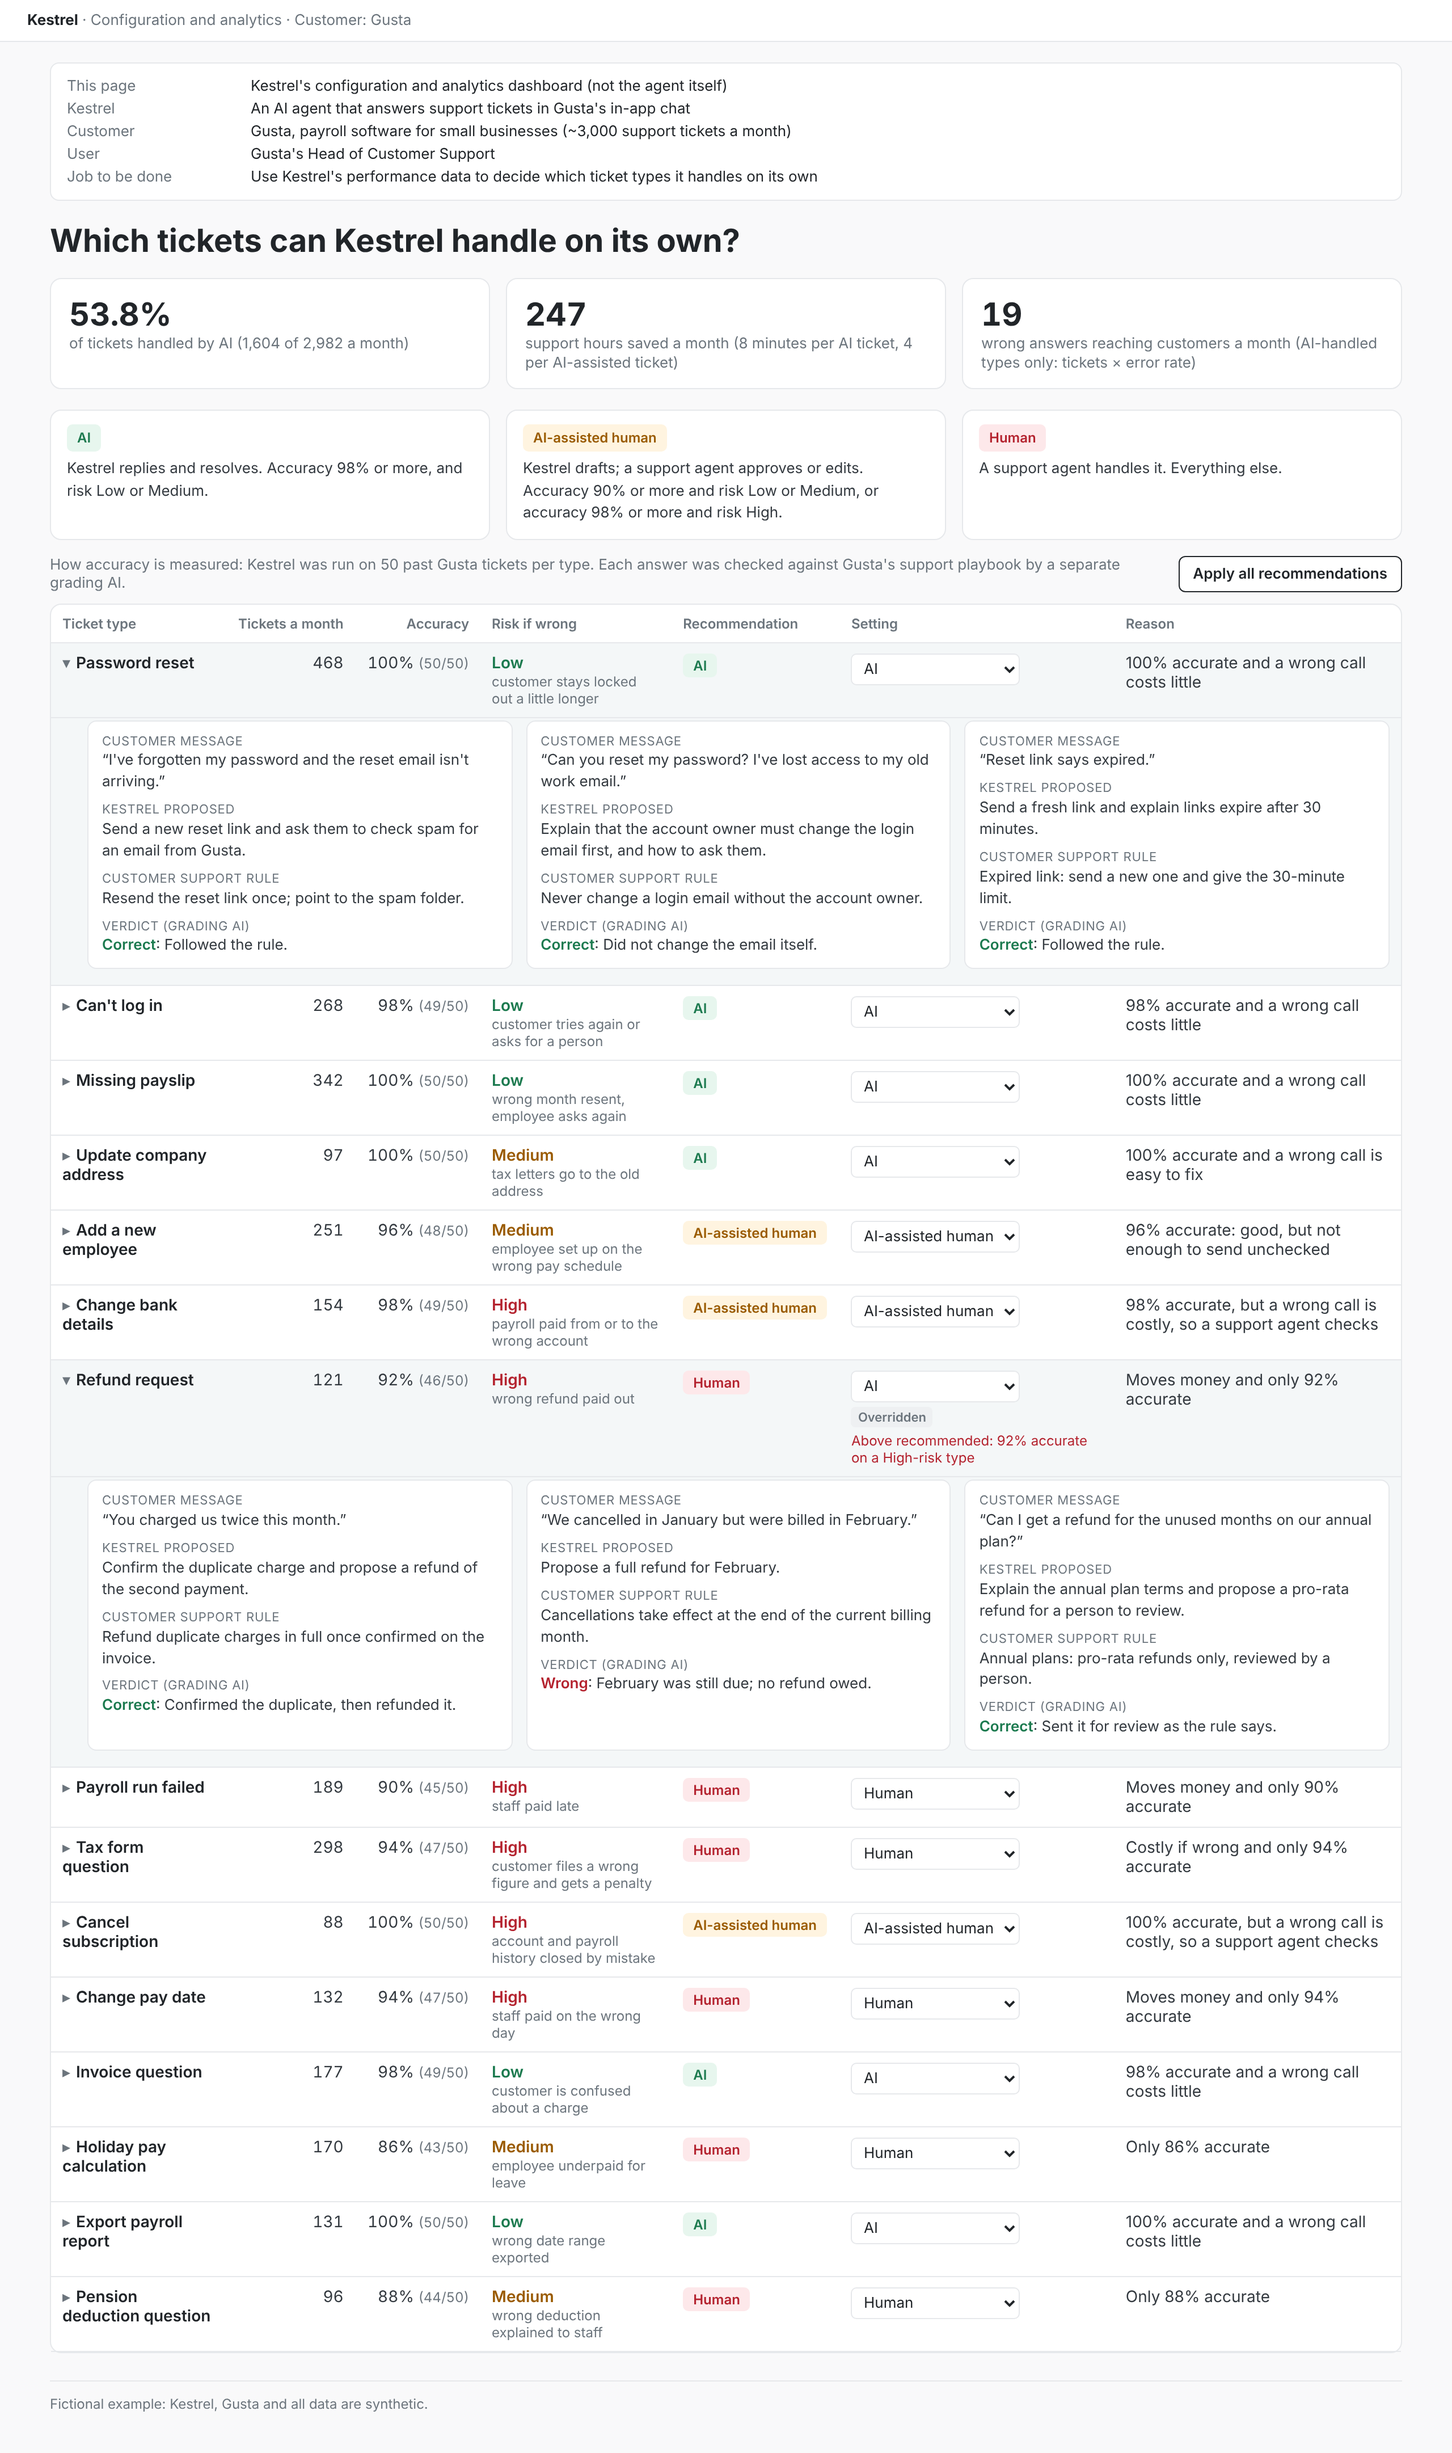
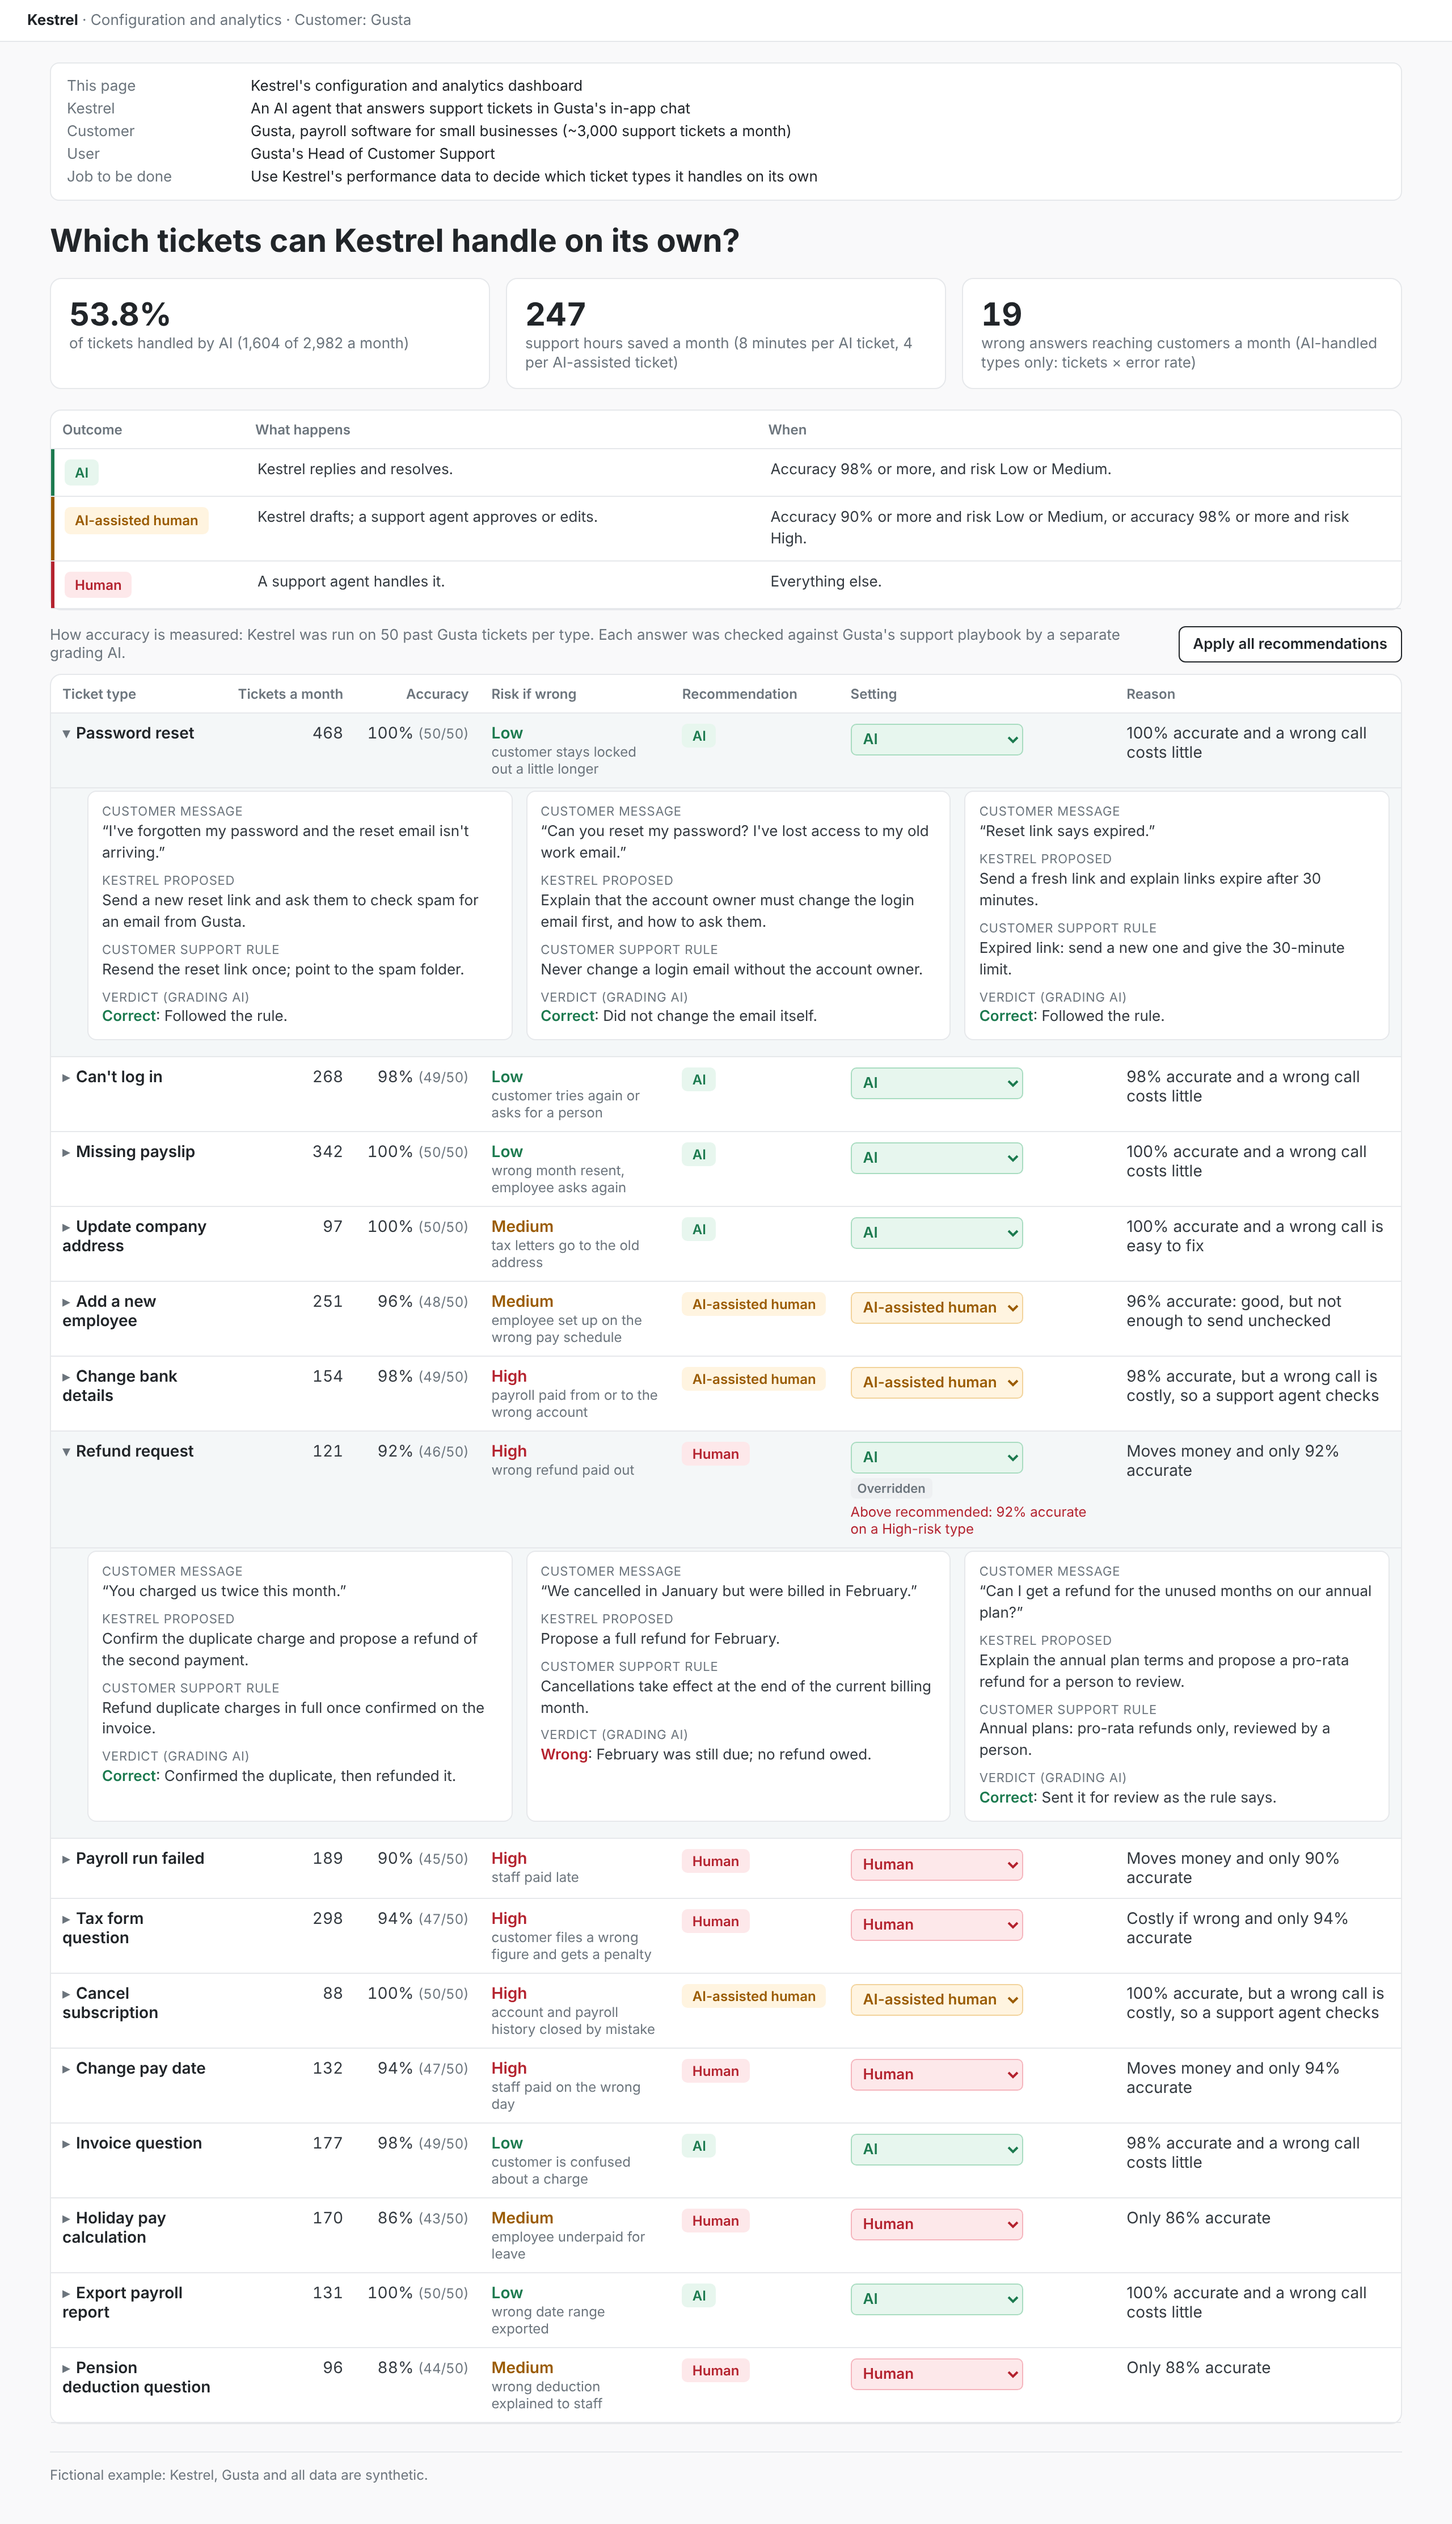
Coloured setting dropdowns, decision rules as one table, simpler header
Claude-Session: https://claude.ai/code/session_016JoguXTxkWcj5knaYbAtMZ

diff --git a/examples/kestrel/run/build/mvp.html b/examples/kestrel/run/build/mvp.html
@@ -16,9 +16,11 @@ h1{font-size:28px;color:var(--head);margin:0 0 16px}
 .card{background:#fff;border:1px solid var(--line);border-radius:10px;padding:14px 16px}
 .card b{display:block;font-size:28px;color:var(--head);font-variant-numeric:tabular-nums}
 .card span{color:var(--mute);font-size:13px}
-.rules{display:grid;grid-template-columns:repeat(3,1fr);gap:14px;margin-bottom:14px}
-.rule{background:#fff;border:1px solid var(--line);border-radius:10px;padding:12px 14px;font-size:13px;line-height:1.5}
-.rule .chip{margin-bottom:6px}
+.rules{margin-bottom:14px}
+.rules table td{font-size:13px;line-height:1.45;padding:9px 12px}
+.rules table td:first-child{width:170px}
+.rules table td:nth-child(2){width:38%}
+.rules tr.r-resolve td:first-child{box-shadow:inset 3px 0 0 var(--ai)}.rules tr.r-draft td:first-child{box-shadow:inset 3px 0 0 var(--mix)}.rules tr.r-human td:first-child{box-shadow:inset 3px 0 0 var(--hum)}
 .chip{display:inline-block;padding:3px 9px;border-radius:5px;font-size:12px;font-weight:600;white-space:nowrap}
 .c-resolve{background:var(--ai-bg);color:var(--ai)}.c-draft{background:var(--mix-bg);color:var(--mix)}.c-human{background:var(--hum-bg);color:var(--hum)}
 .bar{display:flex;justify-content:space-between;align-items:center;gap:12px;margin:4px 0 10px}
@@ -33,7 +35,9 @@ tr.row{cursor:pointer}tr.row:hover{background:#f6f8f9}tr.row.open{background:var
 .name{font-weight:600;color:var(--head)}.chev{color:var(--mute);display:inline-block;width:12px}
 .risk{white-space:nowrap;font-weight:600}.risk-Low{color:var(--ai)}.risk-Medium{color:var(--mix)}.risk-High{color:var(--hum)}
 .sub{font-size:12px;color:var(--mute)}
-select{font:inherit;font-size:13px;border:1px solid var(--line);border-radius:5px;padding:4px 6px;background:#fff;color:var(--head)}
+select{font:inherit;font-size:13px;font-weight:600;border:1px solid var(--line);border-radius:5px;padding:4px 6px;background:#fff;color:var(--head);cursor:pointer}
+select.s-resolve{background:var(--ai-bg);color:var(--ai);border-color:#a8dcc0}select.s-draft{background:var(--mix-bg);color:var(--mix);border-color:#f2d39b}select.s-human{background:var(--hum-bg);color:var(--hum);border-color:#f5b5bd}
+select option{background:#fff;color:var(--head);font-weight:400}
 .tag{display:inline-block;font-size:11px;font-weight:600;padding:2px 6px;border-radius:4px;background:#eef0f2;color:var(--mute);margin-top:4px}
 .warn{font-size:12px;color:var(--hum);margin-top:4px}
 tr.detail td{background:var(--open);padding:2px 10px 14px 32px}
@@ -43,14 +47,14 @@ tr.detail td{background:var(--open);padding:2px 10px 14px 32px}
 .lbl{display:block;font-size:11px;text-transform:uppercase;letter-spacing:.4px;color:var(--mute)}
 .ok{color:var(--ai);font-weight:600}.no{color:var(--hum);font-weight:600}
 footer{margin-top:24px;color:var(--mute);font-size:12px;border-top:1px solid var(--line);padding-top:12px}
-@media (max-width:900px){.summary,.rules,.exgrid{grid-template-columns:1fr}.hide-sm{display:none}main{padding:16px}.header{grid-template-columns:1fr}.bar{flex-direction:column;align-items:flex-start}}
+@media (max-width:900px){.summary,.exgrid{grid-template-columns:1fr}.hide-sm{display:none}main{padding:16px}.header{grid-template-columns:1fr}.bar{flex-direction:column;align-items:flex-start}}
 </style></head><body>
 <div class="topbar" id="topbar"></div>
 <main>
 <dl class="header" id="header"></dl>
 <h1 id="headline"></h1>
 <div class="summary" id="summary"></div>
-<div class="rules" id="rules"></div>
+<div class="panel rules" id="rules"></div>
 <div class="bar"><p class="measure" id="measure"></p><button class="apply" id="applyAll" onclick="applyAll()">Apply all recommendations</button></div>
 <div class="panel"><table id="types"></table></div>
 <footer id="footer"></footer>
@@ -88,16 +92,17 @@ function staticParts(){
   const K = D.product, G = D.customer, n = D.test_tickets_per_type;
   document.getElementById('topbar').innerHTML = `<b>${K}</b> · Configuration and analytics · Customer: ${G}`;
   document.getElementById('header').innerHTML = `
-    <dt>This page</dt><dd>${K}'s configuration and analytics dashboard (not the agent itself)</dd>
+    <dt>This page</dt><dd>${K}'s configuration and analytics dashboard</dd>
     <dt>${K}</dt><dd>An AI agent that answers support tickets in ${G}'s in-app chat</dd>
     <dt>Customer</dt><dd>${G}, payroll software for small businesses (~${fmt(Math.round(D.types.reduce((s, t) => s + t.tickets, 0) / 100) * 100)} support tickets a month)</dd>
     <dt>User</dt><dd>${G}'s Head of Customer Support</dd>
     <dt>Job to be done</dt><dd>Use ${K}'s performance data to decide which ticket types it handles on its own</dd>`;
   document.getElementById('headline').textContent = `Which tickets can ${K} handle on its own?`;
-  document.getElementById('rules').innerHTML = `
-    <div class="rule"><span class="chip c-resolve">AI</span><div>${K} replies and resolves. Accuracy 98% or more, and risk Low or Medium.</div></div>
-    <div class="rule"><span class="chip c-draft">AI-assisted human</span><div>${K} drafts; a support agent approves or edits. Accuracy 90% or more and risk Low or Medium, or accuracy 98% or more and risk High.</div></div>
-    <div class="rule"><span class="chip c-human">Human</span><div>A support agent handles it. Everything else.</div></div>`;
+  document.getElementById('rules').innerHTML = `<table>
+    <tr><th>Outcome</th><th>What happens</th><th>When</th></tr>
+    <tr class="r-resolve"><td><span class="chip c-resolve">AI</span></td><td>${K} replies and resolves.</td><td>Accuracy 98% or more, and risk Low or Medium.</td></tr>
+    <tr class="r-draft"><td><span class="chip c-draft">AI-assisted human</span></td><td>${K} drafts; a support agent approves or edits.</td><td>Accuracy 90% or more and risk Low or Medium, or accuracy 98% or more and risk High.</td></tr>
+    <tr class="r-human"><td><span class="chip c-human">Human</span></td><td>A support agent handles it.</td><td>Everything else.</td></tr></table>`;
   document.getElementById('measure').textContent = `How accuracy is measured: ${K} was run on ${n} past ${G} tickets per type. Each answer was checked against ${G}'s support playbook by a separate grading AI.`;
   document.getElementById('footer').textContent = `Fictional example: ${K}, ${G} and all data are synthetic.`;
 }
@@ -117,7 +122,7 @@ function render(){
       <td class="n">${p}% <span class="sub">(${t.correct}/${n})</span></td>
       <td><span class="risk risk-${t.risk}">${t.risk}</span><div class="sub">${t.risk_example.replace(/^\w+: /, '')}</div></td>
       <td><span class="chip c-${rec}">${LABEL[rec]}</span></td>
-      <td onclick="event.stopPropagation()"><select data-i="${i}" onchange="setMode(${i}, this.value)">${['resolve', 'draft', 'human'].map(m => `<option value="${m}"${m === set ? ' selected' : ''}>${LABEL[m]}</option>`).join('')}</select>${over}${warn}</td>
+      <td onclick="event.stopPropagation()"><select class="s-${set}" data-i="${i}" onchange="setMode(${i}, this.value)">${['resolve', 'draft', 'human'].map(m => `<option value="${m}"${m === set ? ' selected' : ''}>${LABEL[m]}</option>`).join('')}</select>${over}${warn}</td>
       <td class="hide-sm">${t.reason}</td></tr>`;
     const det = isOpen ? `<tr class="detail"><td colspan="7"><div class="exgrid">${t.examples.map(e => `<div class="exbox">
       <p><span class="lbl">Customer message</span>“${e.message}”</p>

diff --git a/examples/kestrel/run/build/check_mvp.js b/examples/kestrel/run/build/check_mvp.js
@@ -10,7 +10,7 @@ const srv = http.createServer((q, r) => { const f = path.join(root, decodeURICom
   const txt = s => p.textContent(s);
   await p.goto(`http://localhost:${srv.address().port}/build/mvp.html`); await p.waitForSelector('body[data-ready="1"]');
   t('top bar', (await txt('#topbar')) === 'Kestrel · Configuration and analytics · Customer: Gusta');
-  t('header says it is the dashboard, not the agent', (await txt('#header')).includes("Kestrel's configuration and analytics dashboard (not the agent itself)"));
+  t('header names the dashboard', (await txt('#header')).includes("Kestrel's configuration and analytics dashboard"));
   t('headline', (await txt('#headline')) === 'Which tickets can Kestrel handle on its own?');
   t('summary: 49.7%, 231 hours, 9 wrong answers', (await txt('#sumShare')) === '49.7%' && (await txt('#sumHours')) === '231' && (await txt('#sumWrong')) === '9');
   t('rules before the table', await p.evaluate(() => !!(document.querySelector('#rules').compareDocumentPosition(document.querySelector('#types')) & Node.DOCUMENT_POSITION_FOLLOWING)));
@@ -28,6 +28,8 @@ const srv = http.createServer((q, r) => { const f = path.join(root, decodeURICom
   t('lowering autonomy: Overridden, no warning', row0.includes('Overridden') && !row0.includes('Above recommended'));
   await p.click('#applyAll');
   t('Apply all recommendations resets everything', (await txt('#sumShare')) === '49.7%' && !(await txt('#types')).includes('Overridden'));
+  t('rules are one table with 3 coloured rows', (await p.$$('#rules tr.r-resolve, #rules tr.r-draft, #rules tr.r-human')).length === 3 && (await p.$$('#rules .chip')).length === 3);
+  t('setting dropdown is coloured by its value', (await p.getAttribute('select[data-i="0"]', 'class')) === 's-resolve' && (await p.getAttribute('select[data-i="6"]', 'class')) === 's-human');
   const body = await txt('body');
   t('no em dashes on the page', !body.includes('—'));
   t('never "agent" on its own', !/(?<!AI |support )\bagents?\b/i.test(body.replace(/the agent itself/g, '')));

diff --git a/examples/kestrel/run/06-screen-specs.md b/examples/kestrel/run/06-screen-specs.md
@@ -6,7 +6,7 @@ One page: [design/1-overview.png](design/1-overview.png) (Password reset expande
 
 | Part | Shows | Acceptance criteria |
 |---|---|---|
-| Header | This page (the dashboard, not the agent itself), Kestrel, customer, user, job to be done | Short labelled lines, no paragraph |
+| Header | This page, Kestrel, customer, user, job to be done | Short labelled lines, no paragraph |
 | Three numbers | Share handled by AI, hours saved, wrong answers reaching customers | Match the table to the ticket |
 | Decision rules | AI, AI-assisted human, Human, colour-coded | Above the table |
 | Setting | A dropdown per row, defaulting to the recommendation; "Overridden" tag; a warning above the recommendation; "Apply all recommendations" | The three numbers update live |

diff --git a/README.md b/README.md
@@ -13,7 +13,7 @@ How I go from a customer's ask to a tested, working prototype with Claude Code: 
 > **The example in [`examples/kestrel/`](examples/kestrel/) is FICTIONAL.** Kestrel, Gusta and all data are synthetic. It shows the workflow end to end on a realistic B2B SaaS case: deciding which support tickets an AI agent can handle on its own.
 
 ## What the demo shows
-Kestrel's configuration and analytics dashboard (not the agent itself), for Gusta's Head of Customer Support:
+Kestrel's configuration and analytics dashboard, for Gusta's Head of Customer Support:
 
 | Part | What it shows |
 |---|---|
